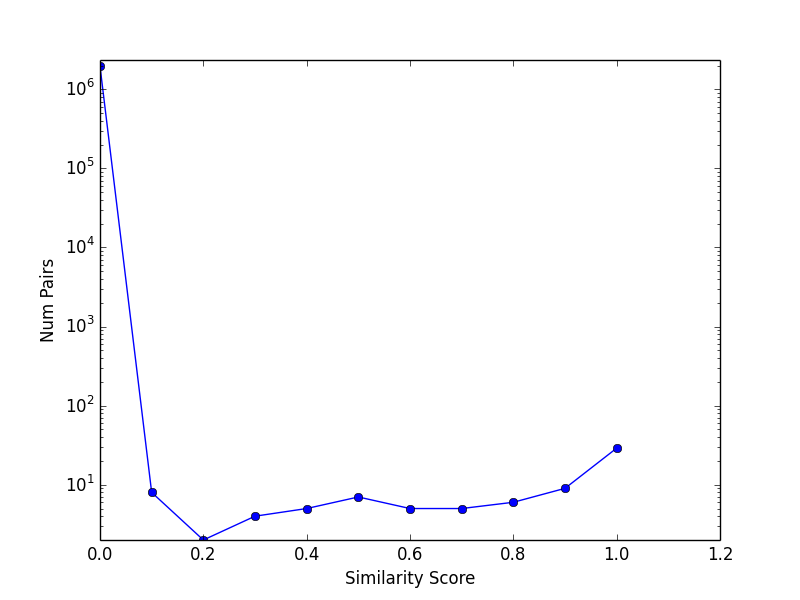
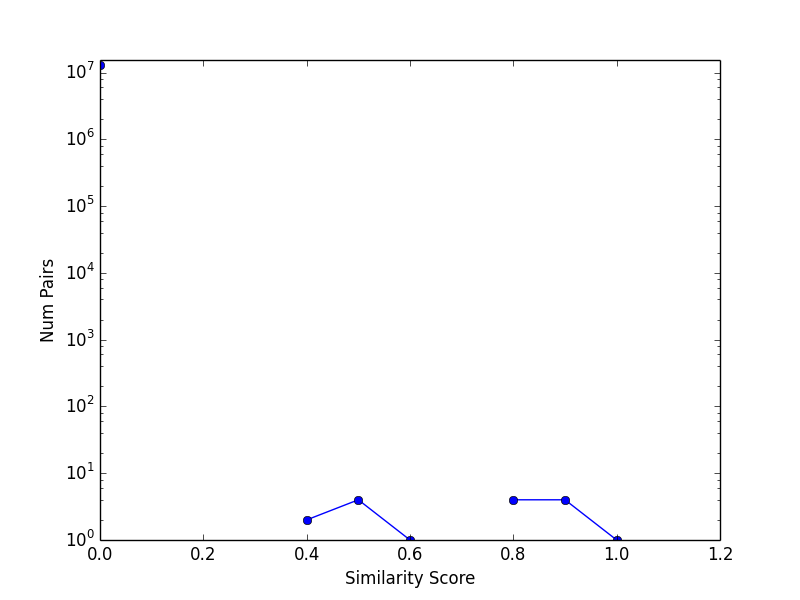
finish reviewer similarity

diff --git a/plot.py b/plot.py
@@ -93,23 +93,23 @@ class Plot:
 
 if __name__ == '__main__':
 	plot = Plot()
-	# test_dict = {}
-	# for x in xrange(1000, 200000, 1000):
-	# 	test_dict[x] = 0
-	# print str(test_dict)
-	# plot.multiprocess_putnum(test_dict, 2000)
-	plot.multi_single_datanum(1000, 5000, 100, 20000)
+	test_dict = {}
+	for x in xrange(4000, 400000, 2000):
+		test_dict[x] = 0
+	print str(test_dict)
+	plot.multiprocess_putnum(test_dict, 3000)
+	# plot.multi_single_datanum(1000, 5000, 100, 20000)
 
 	# plot.save_graph(collections.OrderedDict(sorted({64000: 14.918230056762695, 96000: 15.744375944137573, 197000: 19.829822778701782, 85000: 15.994122982025146, 139000: 20.036482095718384, 42000: 15.09686803817749, 7000: 27.16706609725952, 110000: 15.831425905227661, 194000: 19.258142948150635, 63000: 14.682793140411377, 165000: 17.73047685623169, 20000: 17.920326948165894, 14000: 20.43348503112793, 107000: 15.52566409111023, 191000: 19.242440938949585, 41000: 15.102224111557007, 162000: 17.511078119277954, 134000: 16.996234893798828, 156000: 17.412498950958252, 62000: 15.627978801727295, 21000: 18.001748085021973, 133000: 16.631924152374268, 19000: 18.528390169143677, 188000: 19.1599280834198, 167000: 18.11474919319153, 159000: 21.29122805595398, 40000: 14.950007915496826, 92000: 15.98358702659607, 130000: 16.522154808044434, 61000: 15.211261987686157, 101000: 16.629250049591064, 185000: 18.54332685470581, 178000: 18.857381105422974, 82000: 15.144268035888672, 3000: 48.3637969493866, 127000: 17.625098943710327, 39000: 15.108372926712036, 98000: 15.999804019927979, 182000: 18.686457872390747, 60000: 15.043747901916504, 74000: 15.116554975509644, 153000: 17.371186017990112, 81000: 15.520318984985352, 124000: 18.9638991355896, 179000: 18.560935020446777, 38000: 14.806413888931274, 17000: 18.7116858959198, 113000: 18.151208877563477, 150000: 17.349174976348877, 59000: 14.380456924438477, 121000: 16.156711101531982, 16000: 19.90347719192505, 88000: 15.395801067352295, 176000: 18.709563970565796, 147000: 16.72798490524292, 37000: 15.161941051483154, 118000: 17.466742992401123, 58000: 15.186264991760254, 95000: 16.11911416053772, 135000: 19.816465854644775, 15000: 20.175090074539185, 144000: 20.101855993270874, 115000: 15.937544107437134, 36000: 15.119109153747559, 6000: 31.63468599319458, 170000: 20.851011037826538, 146000: 19.911347150802612, 57000: 14.930532932281494, 141000: 21.05031418800354, 78000: 17.307641983032227, 13000: 22.59499216079712, 112000: 15.29670000076294, 196000: 19.671149969100952, 35000: 16.236346006393433, 157000: 19.124186038970947, 138000: 17.162599086761475, 56000: 15.727712154388428, 84000: 14.522046089172363, 109000: 15.92066502571106, 193000: 19.255282878875732, 77000: 15.214536905288696, 164000: 20.746891975402832, 168000: 18.123740911483765, 34000: 15.136823177337646, 91000: 15.680315971374512, 106000: 15.070641994476318, 190000: 19.17009210586548, 55000: 14.853172063827515, 161000: 21.992069005966187, 76000: 16.81409215927124, 2000: 66.36966300010681, 132000: 16.69684410095215, 33000: 15.118573904037476, 187000: 18.664016008377075, 103000: 16.932559967041016, 158000: 17.653738975524902, 54000: 14.707251071929932, 73000: 15.4998939037323, 129000: 16.338701963424683, 11000: 24.236300945281982, 100000: 15.649889945983887, 184000: 19.0886070728302, 32000: 15.250720024108887, 80000: 15.245896100997925, 114000: 16.546409130096436, 126000: 16.05789804458618, 53000: 14.961920022964478, 97000: 15.811627864837646, 181000: 19.96997904777527, 10000: 24.293741941452026, 87000: 15.448606014251709, 125000: 16.5158588886261, 152000: 20.121020078659058, 31000: 15.459984064102173, 123000: 16.37104105949402, 52000: 14.618037939071655, 94000: 17.786370992660522, 136000: 18.259411096572876, 149000: 17.054018020629883, 9000: 25.049793004989624, 120000: 15.94108510017395, 30000: 16.03421401977539, 5000: 34.715928077697754, 175000: 18.13328504562378, 51000: 14.917027950286865, 117000: 16.08367609977722, 8000: 26.413170099258423, 12000: 22.15650510787964, 172000: 18.106805086135864, 29000: 15.842013835906982, 143000: 19.855108976364136, 199000: 19.6211519241333, 50000: 15.152168035507202, 83000: 15.376329183578491, 169000: 17.78787398338318, 71000: 14.912647008895874, 140000: 18.594067811965942, 28000: 15.694918155670166, 90000: 15.690378904342651, 111000: 17.00503921508789, 195000: 19.24498987197876, 49000: 15.14981198310852, 166000: 18.51816201210022, 137000: 16.61916208267212, 70000: 14.89110016822815, 65000: 14.657104969024658, 108000: 15.75787901878357, 192000: 19.509616136550903, 27000: 16.45912194252014, 163000: 17.72785711288452, 104000: 15.998986005783081, 48000: 14.603538036346436, 72000: 14.888283014297485, 105000: 17.021487951278687, 69000: 14.564287900924683, 173000: 18.304534912109375, 160000: 21.469449043273926, 26000: 16.34509301185608, 79000: 15.283149003982544, 131000: 16.797734022140503, 47000: 14.586381912231445, 102000: 15.778518915176392, 186000: 18.840651988983154, 155000: 17.707167863845825, 68000: 14.783122062683105, 86000: 16.405131101608276, 198000: 20.394216060638428, 128000: 16.56391406059265, 25000: 16.41101598739624, 99000: 16.040529012680054, 183000: 18.2150239944458, 46000: 15.179689884185791, 93000: 15.941359996795654, 154000: 19.332723140716553, 67000: 15.086982011795044, 180000: 21.71414589881897, 24000: 16.67489194869995, 4000: 39.802417039871216, 177000: 19.580168962478638, 151000: 18.512964963912964, 45000: 14.799952030181885, 122000: 17.075910091400146, 66000: 15.176244020462036, 75000: 14.961277961730957, 148000: 19.777824878692627, 23000: 16.991419076919556, 119000: 16.118332862854004, 44000: 15.079751968383789, 18000: 18.84535789489746, 174000: 20.461286067962646, 1000: 81.70069408416748, 145000: 16.670475006103516, 189000: 19.31572389602661, 116000: 16.58310580253601, 22000: 17.334073066711426, 89000: 15.937705039978027, 171000: 18.16211199760437, 43000: 14.970747947692871, 142000: 16.917114973068237}.items())), 'graphs/multi_putnum2000_costTime.png', plot_type='rx-', use_log=[False, False], log_base=[2, 10], title='2000 reviews with different queue put num', xlabel='Queue Put Number', ylabel='Cost Time')
 	
 
 	
 
-	# single_dict = {3200: 29.64471697807312, 4800: 28.393656015396118, 4100: 28.946753978729248, 1800: 12.807634115219116, 2700: 28.878325939178467, 3600: 28.807163953781128, 1300: 6.813941955566406, 2200: 19.020565032958984, 3100: 28.701494932174683, 4000: 28.385812997817993, 4400: 29.053267002105713, 1700: 11.394320011138916, 2600: 27.719489097595215, 4700: 29.97678303718567, 3500: 28.825263023376465, 1200: 5.957404136657715, 2100: 17.069204092025757, 3000: 28.964629888534546, 3900: 29.30251908302307, 1600: 9.912732124328613, 2500: 25.805445909500122, 3400: 29.146952152252197, 4300: 29.039080142974854, 1100: 5.29392409324646, 2000: 15.365304946899414, 4600: 28.872859001159668, 2900: 29.4290771484375, 3800: 29.63064193725586, 4900: 28.653519868850708, 1500: 8.909260034561157, 2400: 23.304038047790527, 3300: 28.436851024627686, 1000: 4.444137096405029, 1900: 13.69376802444458, 2800: 29.68211793899536, 4200: 28.701472997665405, 3700: 29.274412155151367, 1400: 7.897652864456177, 4500: 29.148250102996826, 2300: 20.78565287590027}
+	# single_dict = {3200: 262.5096769332886, 1600: 85.40117812156677, 4100: 393.40612506866455, 1800: 106.48868107795715, 2700: 205.33925104141235, 3600: 316.5888249874115, 1300: 57.37373399734497, 2200: 147.6752598285675, 3100: 251.0879030227661, 4000: 376.5115270614624, 1200: 47.4332001209259, 1700: 95.24941492080688, 2600: 193.1543800830841, 1500: 76.3985378742218, 3500: 303.85127091407776, 4400: 442.0929400920868, 2100: 137.83491921424866, 3000: 238.65617418289185, 3900: 362.72043108940125, 4800: 512.3878018856049, 2500: 182.00989508628845, 3400: 289.6758699417114, 1100: 39.687593936920166, 4300: 426.81977820396423, 2000: 128.8628499507904, 1400: 67.05243587493896, 2900: 227.98532700538635, 3800: 346.6359498500824, 4900: 532.5565299987793, 4700: 494.07091212272644, 2400: 171.3094789981842, 3300: 276.6393790245056, 1000: 32.356853008270264, 1900: 118.46214699745178, 2800: 216.5012538433075, 4200: 410.1247251033783, 3700: 333.5055329799652, 4600: 477.0842230319977, 4500: 461.1914498806, 2300: 159.1701009273529}
 	# single_dict = collections.OrderedDict(sorted(single_dict.items()))
 	# # -------------------------
 	
-	# multi_dict = {3200: 29.64471697807312, 4800: 28.393656015396118, 4100: 28.946753978729248, 1800: 12.807634115219116, 2700: 28.878325939178467, 3600: 28.807163953781128, 1300: 6.813941955566406, 2200: 19.020565032958984, 3100: 28.701494932174683, 4000: 28.385812997817993, 4400: 29.053267002105713, 1700: 11.394320011138916, 2600: 27.719489097595215, 4700: 29.97678303718567, 3500: 28.825263023376465, 1200: 5.957404136657715, 2100: 17.069204092025757, 3000: 28.964629888534546, 3900: 29.30251908302307, 1600: 9.912732124328613, 2500: 25.805445909500122, 3400: 29.146952152252197, 4300: 29.039080142974854, 1100: 5.29392409324646, 2000: 15.365304946899414, 4600: 28.872859001159668, 2900: 29.4290771484375, 3800: 29.63064193725586, 4900: 28.653519868850708, 1500: 8.909260034561157, 2400: 23.304038047790527, 3300: 28.436851024627686, 1000: 4.444137096405029, 1900: 13.69376802444458, 2800: 29.68211793899536, 4200: 28.701472997665405, 3700: 29.274412155151367, 1400: 7.897652864456177, 4500: 29.148250102996826, 2300: 20.78565287590027}
+	# multi_dict = {3200: 54.066938161849976, 4800: 128.33483600616455, 4100: 90.9959008693695, 1800: 19.561939001083374, 2700: 39.220300912857056, 3600: 68.17520594596863, 1300: 10.319740056991577, 2200: 25.881090879440308, 3100: 51.64960503578186, 4000: 85.37146997451782, 4400: 104.64823603630066, 1700: 15.290241956710815, 2600: 36.57039403915405, 4700: 121.93518900871277, 3500: 63.91759896278381, 1200: 7.749666929244995, 2100: 24.729274034500122, 3000: 46.17844796180725, 3900: 80.35389804840088, 1600: 13.229113101959229, 2500: 33.319267988204956, 3400: 60.7636878490448, 4300: 100.47692394256592, 1100: 6.378443956375122, 2000: 21.803447008132935, 4600: 116.3408420085907, 2900: 44.40487289428711, 3800: 76.09995889663696, 4900: 134.72134685516357, 1500: 12.677587032318115, 2400: 30.849808931350708, 3300: 55.22924494743347, 1000: 5.362555980682373, 1900: 19.344277143478394, 2800: 41.42467212677002, 4200: 94.54766416549683, 3700: 72.58612585067749, 1400: 12.157100915908813, 4500: 110.68796515464783, 2300: 27.833203077316284}
 	# multi_dict = collections.OrderedDict(sorted(multi_dict.items()))
 	
 	# single_x_list = single_dict.keys()
@@ -119,5 +119,5 @@ if __name__ == '__main__':
 	# plt.ylabel('Cost Time')
 	# plt.xlabel('Total Data Num')
 	# line_single, line_multi = plt.plot(single_x_list, single_y_list, 'bx-', multi_x_list, multi_y_list, 'ro-')
-	# plt.legend([line_single, line_multi], ['Single', 'Multi'])
+	# plt.legend([line_single, line_multi], ['Single', 'Multi'], bbox_to_anchor=(0.5, 1))
 	# plt.savefig('graphs/single_multi_1000_5000_100.png')

diff --git a/multi_process.py b/multi_process.py
@@ -22,7 +22,7 @@ def producer(q, l, name, to_process_list):
 	l.release()
 	print 'finish puting', name
 
-def write_review_distance_to_file(q, l, name):
+def write_review_distance_to_file(q, l, name, dirname='jaccard_distance'):
 	"""
 	多进程方法
 	获取一个grams_pair的数组
@@ -32,8 +32,8 @@ def write_review_distance_to_file(q, l, name):
 	"""
 	print 'starting process %s' % name
 	dis_list = []
-	if not path.exists('jaccard_distance/'):
-		makedirs('jaccard_distance')
+	if not path.exists(dirname):
+		makedirs(dirname)
 	while True:
 		l.acquire()
 		if q.empty():
@@ -51,7 +51,7 @@ def write_review_distance_to_file(q, l, name):
 			for grams in grams_pair_list:
 				jaccard_distance = summary_plot.jaccard_distance(grams[0], grams[1])
 				dis_list.append(jaccard_distance)
-			with open('./jaccard_distance/jd.' + str(name), 'w') as fp:
+			with open(dirname + '/jd.' + str(name), 'w') as fp:
 				fp.write(str(dis_list))
 		# time.sleep(1)
 	# print 'writing to file'
@@ -65,7 +65,7 @@ def write_reviewer_similarity_to_file(q, l, name):
 		l.acquire()
 		if q.empty():
 			l.release()
-			time.sleep(0.1)
+			# time.sleep(0.1)
 			continue
 		else:
 			reviewer_content_dict = q.get()
@@ -84,16 +84,16 @@ def draw_review_distance_multiprocess(list_num=-1, put_num=10000):
 	q = Queue()
 	l = Lock()
 	fu = file_util.FileUtil()
-	fu.open_file('../AmazonDataBackup/reviewsNew/reviewsNew.mP')
+	fu.open_file('../AmazonDataBackup/reviewsNew.txt')
 	fu.get_structure()
 	content_list = fu.get_content_list()[0:list_num]
 	content_list_2_grams = summary_plot.get_2_grams_list(content_list)
 	
 	start = time.time()
 	process_list = []
-	cpu_num = cpu_count() / 2
+	cpu_num = cpu_count()
 	for i in range(0,cpu_num):
-		p = Process(target=write_review_distance_to_file, args=(q, l, i))
+		p = Process(target=write_review_distance_to_file, args=(q, l, i), kwargs={'dirname':'jaccard_distance_all'})
 		p.start()
 		process_list.append(p)
 	reviews_len = len(content_list_2_grams)
@@ -106,8 +106,8 @@ def draw_review_distance_multiprocess(list_num=-1, put_num=10000):
 				if count % put_num == 0:
 					q.put(grams_pair_list)
 					grams_pair_list = []
-				if count % 200000 == 0 or not q.empty():
-					time.sleep(0.1)
+				if not q.empty():
+					time.sleep(0.001)
 			grams_pair = [content_list_2_grams[i], content_list_2_grams[j]]
 			grams_pair_list.append(grams_pair)
 			count += 1
@@ -127,7 +127,7 @@ def draw_reviewer_similarity_multiprocess():
 	l = Lock()
 	start = time.time()
 	fu = file_util.FileUtil()
-	fu.open_file('../AmazonDataBackup/reviewsNew/reviewsNew1')
+	fu.open_file('../AmazonDataBackup/reviewsNew.txt')
 	fu.get_structure()
 	print 'finish get_structure() with %s s' % (time.time() - start)
 	# reviewer_content_dict = fu.get_reviewer_content_dict()
@@ -135,7 +135,7 @@ def draw_reviewer_similarity_multiprocess():
 	process_list = []
 	# producer = Process(target=producer, args=(q, l, 'producer', reviewer_content_dict))
 	# p.start()
-	for i in range(0,cpu_count()):
+	for i in range(0,cpu_count()/2):
 		p = Process(target=write_reviewer_similarity_to_file, args=(q, l, i))
 		p.start()
 		process_list.append(p)
@@ -145,16 +145,16 @@ def draw_reviewer_similarity_multiprocess():
 	for line in fu.structure:
 		reviewer = line[0]
 		if not reviewer in reviewer_content_dict.keys():
-			if count % 10000 == 0 and count > 0:
+			if count % 1000 == 0 and count > 0:
 				q.put(reviewer_content_dict)
 				reviewer_content_dict = {}
 			if not q.empty():
-				time.sleep(0.1)
+				time.sleep(0.01)
 			reviewer_content_dict[reviewer] = []
 			count += 1
 		reviewer_content_dict[reviewer].append(line[-1])
 	q.put(reviewer_content_dict)
-	for i in range(0,cpu_count()):
+	for i in range(0,cpu_count()/2):
 		q.put('STOP')
 	print 'finish puting with %s s' % (time.time() - start)
 	# l.acquire()
@@ -189,6 +189,7 @@ if __name__ == '__main__':
 	# 	time_dict[put_num] = finish_time
 	# print time_dict
 	# draw_graph('jaccard_distance', xlabel='Similarity Score', ylabel='Num Pairs', title='')
+	# draw_graph('reviewer_similarity', xlabel='Maximum Similarity Score', ylabel='Number of Reviewers', title='')
 
-	# draw_review_distance_multiprocess(put_num=10000)
-	draw_reviewer_similarity_multiprocess()
+	draw_review_distance_multiprocess(put_num=20000, list_num=110000)
+	# draw_reviewer_similarity_multiprocess()

diff --git a/summary_plot.py b/summary_plot.py
@@ -89,7 +89,7 @@ def save_graph(dict, saveFilename, xlabel='Num Reviews', ylabel='Num Members', u
 	# plt.axhline(y=0.4, color='black', alpha=0.5)
 	# plt.axhline(y=0.5, color='black', alpha=0.5)
 	# plt.axhline(y=0.6, color='black', alpha=0.5)
-	plt.axis([0, float(max(x_list))*1.2, 0, float(max(y_list))*1.2])
+	plt.axis([0, float(max(x_list))*1.2, 1, float(max(y_list))*1.1])
 	plt.savefig(saveFilename)
 
 def jaccard_distance(word1_set, words2_set):
@@ -136,9 +136,12 @@ def get_reviews_similarity_relation(jd_list):
 	"""
 	判断每个similarity区间内的数量
 	"""
-	rs_relation_dict = {'0.0':0, '0.1':0, '0.2':0, '0.3':0, '0.4':0, '0.5':0, '0.6':0, '0.7':0, '0.8':0, '0.9':0, '1.0':0}
+	# rs_relation_dict = {'0.0':0, '0.1':0, '0.2':0, '0.3':0, '0.4':0, '0.5':0, '0.6':0, '0.7':0, '0.8':0, '0.9':0, '1.0':0}
+	rs_relation_dict = {}
 	for jd in jd_list:
-		key = str(math.floor(jd / 0.1) / 10)
+		key = str(math.floor(jd / 0.01) / 100)
+		if key not in rs_relation_dict.keys():
+			rs_relation_dict[key] = 0
 		rs_relation_dict[key] += 1
 	rs_relation_dict = collections.OrderedDict(sorted(rs_relation_dict.items()))
 	return rs_relation_dict
@@ -151,8 +154,9 @@ def get_reviews_similarity_relation(jd_list):
 # save_graph(get_reviews_similarity_relation(get_jd_list(fu.get_content_list()[3000:8000])), 'review_similarity.png', use_log=[False, True], plot_type='bo-')
 
 if __name__ == '__main__':
-
-	print get_jd_list(get_2_grams_list(['a b c d e f', 'b c d e f g']))
+	pass
+	# print get_jd_list(get_2_grams_list(['a b c d e f', 'b c d e f g']))
+	# print [1,2,3] | [2,3,4]
 
 	# fu = file_util.FileUtil()
 	# final_dict = {'1.0':0, '2.0':0, '3.0':0, '4.0':0, '5.0':0}
